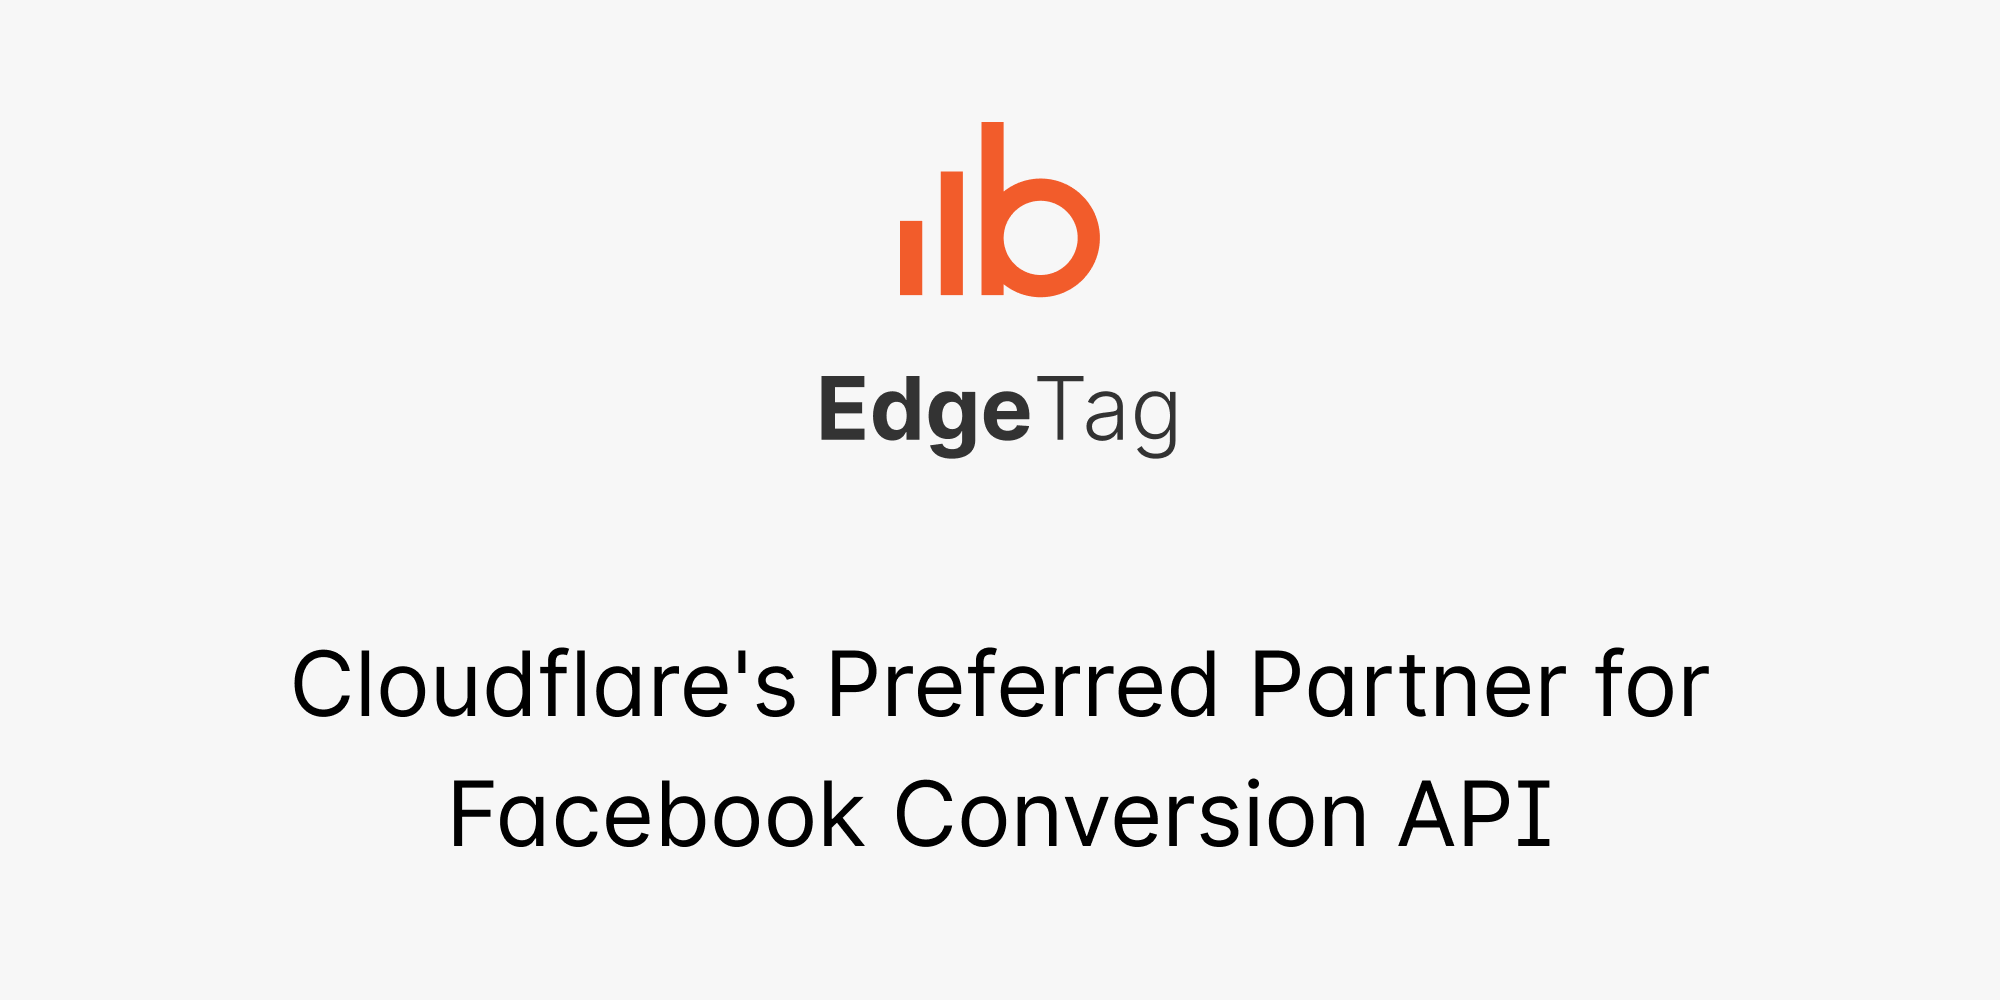
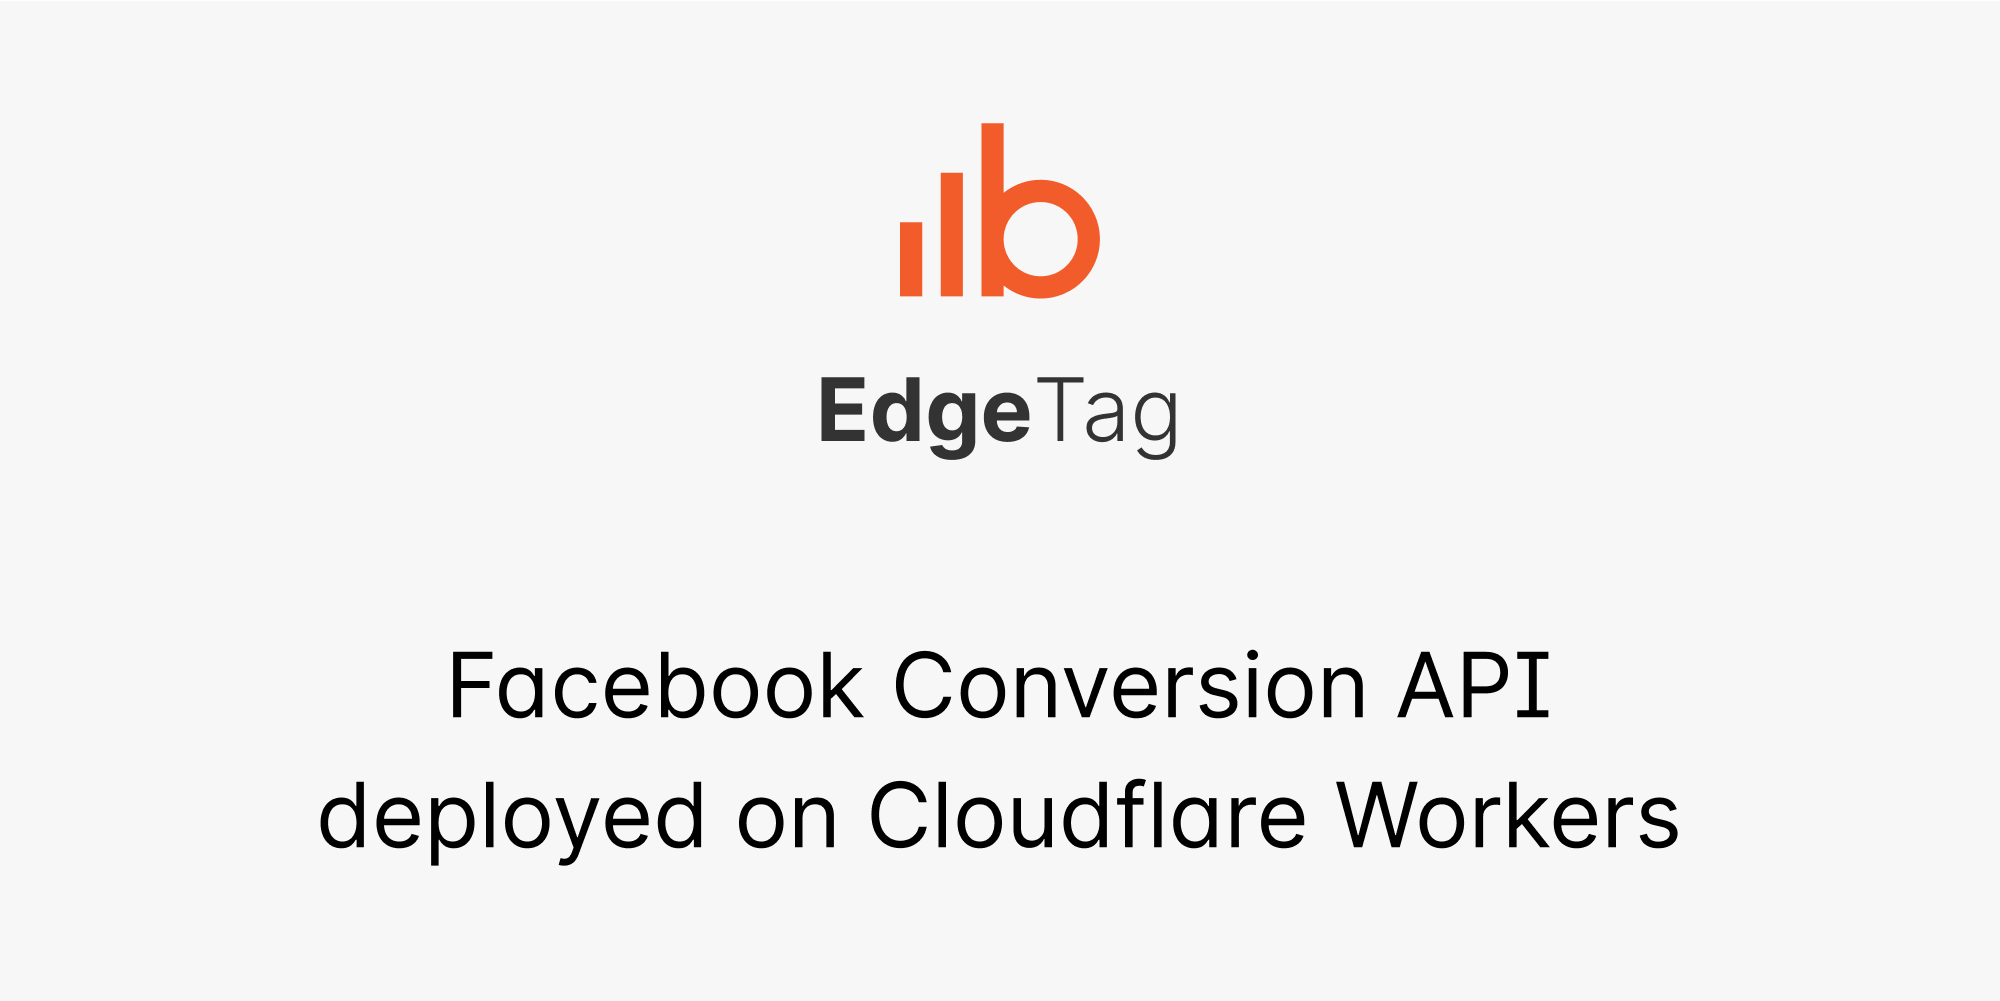
Adjust copy + images

diff --git a/app/routes/blog/index.jsx b/app/routes/blog/index.jsx
@@ -4,7 +4,7 @@ import { codifyClick, formatDate, metaInfo, postFromModule } from '../../utils'
 import stylesUrl from '../../styles/writing.css'
 
 import * as post16 from './edgetag-announcement.mdx'
-import * as post15 from './announcing-our-partnership-with-cloudflare.mdx'
+import * as post15 from './building-with-cloudflare-workers.mdx'
 import * as post14 from './funding-announcement.mdx'
 import * as post13 from './google-ministry-of-magic-losing.mdx'
 import * as post12 from './storybook-for-blotout.mdx'
